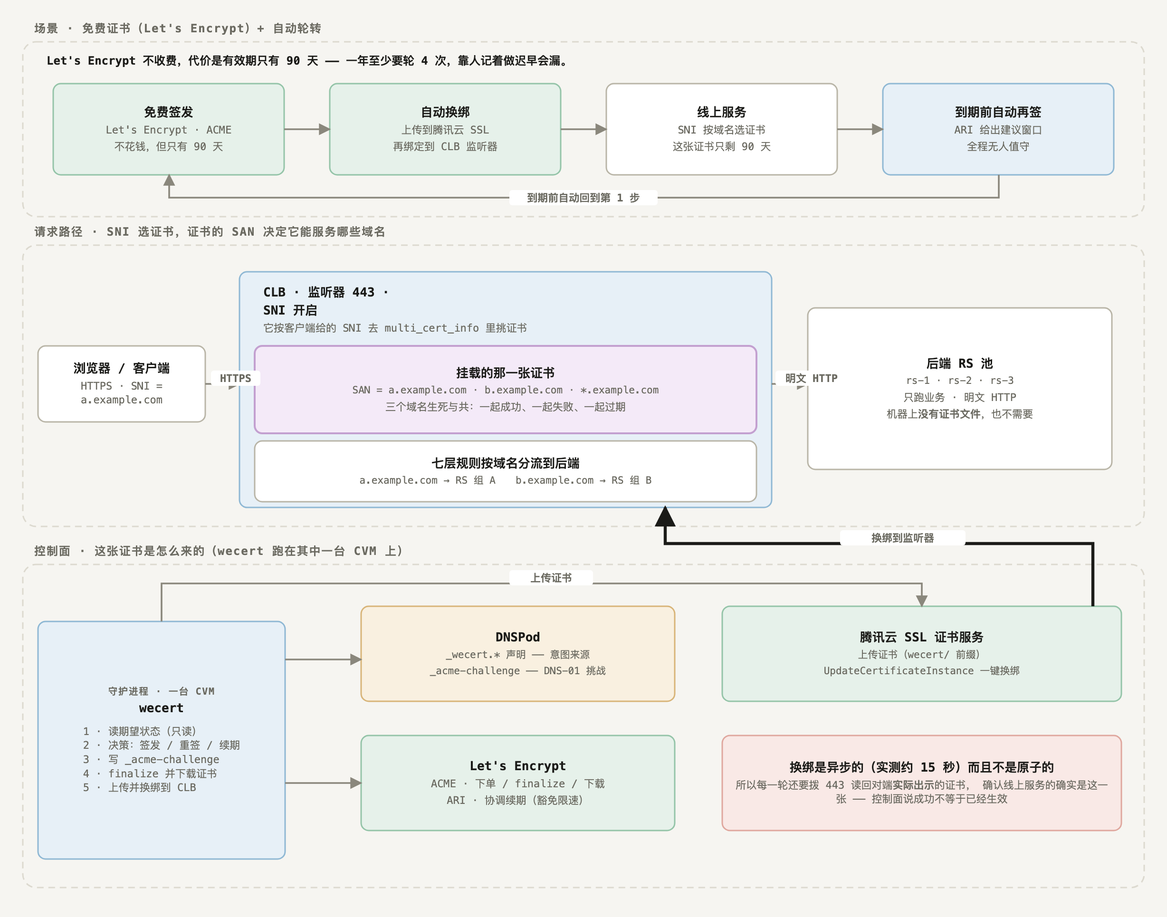
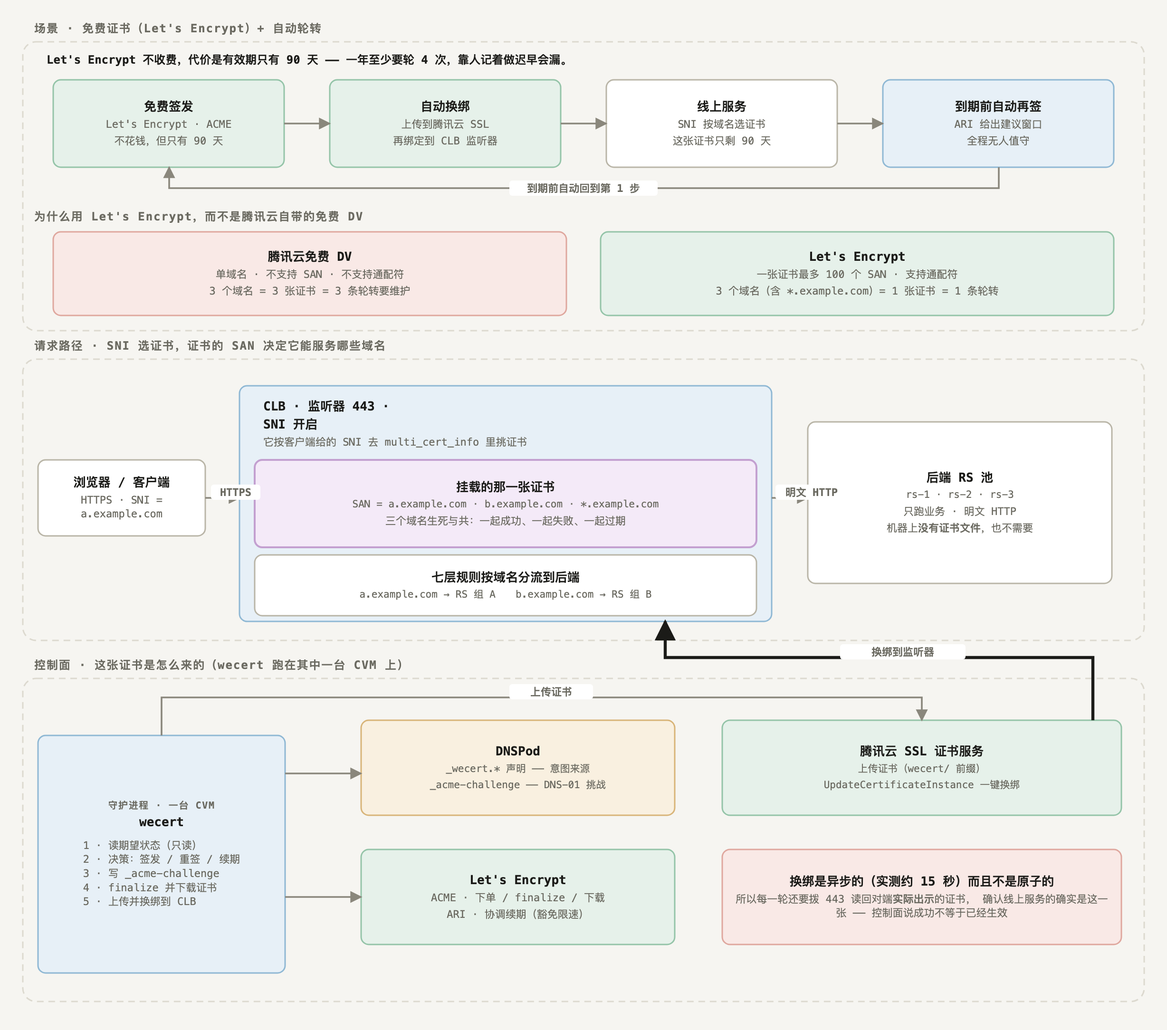
docs: figure ⓪ explains why Let's Encrypt, not Tencent's free DV
The scenario band said the certificate is free and rotates every 90 days,
but never said why it has to be Let's Encrypt rather than the free DV that
Tencent Cloud already hands out. Those are not interchangeable:

  Tencent Cloud free DV  — 单域名 · 不支持 SAN · 不支持通配符
                           3 domains = 3 certificates = 3 rotations
  Let's Encrypt          — ≤100 SANs · wildcards supported
                           3 domains (incl. *.example.com) = 1 cert = 1 rotation

Adds a comparison row to the scenario band making that explicit, and points
out what it buys: the multi-SAN certificate drawn two bands below only works
because Let's Encrypt can carry many names, and a wildcard means adding
foo.example.com later costs zero extra issuances.

Also adds the reasoning to the caption and to all four readmes, which
previously described the figure without ever justifying the CA choice.

Mechanically: the four rotation boxes move up by 4px and shrink by 4px to
make room; the scenario band grows from 184 to 304px tall, the translate
wrapper from 214 to 334, and the viewBox from 965 to 1084. The request-path
and control-plane bands are still untouched.

Verified: build-diagram-langs.py reports no Chinese left in the rendered
English page, check-diagram-fit.py passes in both languages, check-english
guard clean, make check green.

diff --git a/docs/certificate-lifecycle.en.html b/docs/certificate-lifecycle.en.html
@@ -208,60 +208,77 @@ button.print:focus-visible{outline:2px solid var(--local);outline-offset:2px}
 <!-- ══════════════════════════════════════════════════════════ ⓪ -->
 <section id="problem">
   <h2><span class="num">diagram ⓐ</span>Deployment shape: a free certificate rotating itself on the CLB</h2>
-  <p class="cap">The band on top is the scenario this system exists for: <b>a free certificate is valid for 90 days, so it has to rotate automatically</b>. The two bands below are what that scenario looks like on Tencent Cloud — the request path on top, and where the certificate comes from underneath. The relationship in the middle is the one that matters: <b>SNI decides which certificate the CLB uses, and that certificate’s SAN decides which domains it can complete a handshake for</b> — so domains sharing one certificate share its fate.</p>
+  <p class="cap">The band on top is the scenario this system exists for: <b>a free certificate is valid for 90 days, so it has to rotate automatically</b> — and why the choice falls on Let’s Encrypt rather than Tencent Cloud’s own free DV: <b>those are single-domain certificates, supporting neither SAN nor wildcard</b>, so every extra domain means another rotation to maintain. One Let’s Encrypt certificate holds up to 100 names and does support wildcards, so several domains combine into one certificate and rotate as one. The two bands below are what that scenario looks like on Tencent Cloud — the request path on top, and where the certificate comes from underneath. The relationship in the middle is the one that matters: <b>SNI decides which certificate the CLB uses, and that certificate’s SAN decides which domains it can complete a handshake for</b> — so domains sharing one certificate share its fate.</p>
 
   <figure>
   <div class="scroll">
-  <svg viewBox="0 0 1228 965" role="img" aria-label="wecert's deployment shape: a free certificate rotated automatically by Let's Encrypt (issued for free → rebound automatically → serving for 90 days → reissued before expiry), with clients reaching the CLB over SNI and one multi-SAN certificate routing to a backend RS pool">
+  <svg viewBox="0 0 1228 1084" role="img" aria-label="wecert's deployment shape: a free certificate rotated automatically by Let's Encrypt (issued for free → rebound automatically → serving for 90 days → reissued before expiry); Let's Encrypt is chosen over Tencent Cloud's own free DV because the latter is single-domain and supports neither SAN nor wildcard. Clients reach the CLB over SNI and one multi-SAN certificate routes to a backend RS pool">
     <defs>
       <marker id="a0" viewBox="0 0 10 10" refX="9" refY="5" markerWidth="7" markerHeight="7" orient="auto-start-reverse"><path class="m-edge" d="M0 0 L10 5 L0 10 z"/></marker>
       <marker id="a0d" viewBox="0 0 10 10" refX="9" refY="5" markerWidth="7" markerHeight="7" orient="auto-start-reverse"><path class="m-ink" d="M0 0 L10 5 L0 10 z"/></marker>
     </defs>
 
     <!-- ── band 0: the scenario, and why it has to rotate ── -->
-    <rect class="zone" x="24" y="44" width="1180" height="184" rx="14"/>
+    <rect class="zone" x="24" y="44" width="1180" height="304" rx="14"/>
     <text class="zone-title" x="36" y="34">The scenario · a free certificate (Let’s Encrypt), rotating automatically</text>
 
-    <foreignObject x="40" y="50" width="1156" height="28">
+    <foreignObject x="40" y="50" width="1156" height="26">
       <div xmlns="http://www.w3.org/1999/xhtml" class="fo left" style="font-size:12px">Let’s Encrypt costs nothing; the price is a 90-day validity — at least four rotations a year, and a human remembering each one will eventually miss.</div>
     </foreignObject>
 
-    <rect class="bx-ext" x="56" y="88" width="243" height="96" rx="8"/>
-    <foreignObject x="56" y="88" width="243" height="96">
+    <rect class="bx-ext" x="56" y="84" width="243" height="92" rx="8"/>
+    <foreignObject x="56" y="84" width="243" height="92">
       <div xmlns="http://www.w3.org/1999/xhtml" class="fo">Issued for free<span class="s">Let's Encrypt · ACME</span>
         <span class="s">no cost, but only 90 days</span>
       </div>
     </foreignObject>
 
-    <rect class="bx-ext" x="347" y="88" width="243" height="96" rx="8"/>
-    <foreignObject x="347" y="88" width="243" height="96">
+    <rect class="bx-ext" x="347" y="84" width="243" height="92" rx="8"/>
+    <foreignObject x="347" y="84" width="243" height="92">
       <div xmlns="http://www.w3.org/1999/xhtml" class="fo">Rebound automatically<span class="s">uploaded to Tencent Cloud SSL</span>
         <span class="s">then bound to the CLB listener</span>
       </div>
     </foreignObject>
 
-    <rect class="bx" x="638" y="88" width="243" height="96" rx="8"/>
-    <foreignObject x="638" y="88" width="243" height="96">
+    <rect class="bx" x="638" y="84" width="243" height="92" rx="8"/>
+    <foreignObject x="638" y="84" width="243" height="92">
       <div xmlns="http://www.w3.org/1999/xhtml" class="fo">Serving traffic<span class="s">SNI picks the certificate</span>
         <span class="s">only 90 days left on it</span>
       </div>
     </foreignObject>
 
-    <rect class="bx-local" x="929" y="88" width="243" height="96" rx="8"/>
-    <foreignObject x="929" y="88" width="243" height="96">
+    <rect class="bx-local" x="929" y="84" width="243" height="92" rx="8"/>
+    <foreignObject x="929" y="84" width="243" height="92">
       <div xmlns="http://www.w3.org/1999/xhtml" class="fo">Reissued before expiry<span class="s">ARI suggests the window</span>
         <span class="s">nobody has to be involved</span>
       </div>
     </foreignObject>
 
-    <path class="edge" d="M299 136 H347" marker-end="url(#a0)"/>
-    <path class="edge" d="M590 136 H638" marker-end="url(#a0)"/>
-    <path class="edge" d="M881 136 H929" marker-end="url(#a0)"/>
-    <path class="edge" d="M1051 184 V208 H178 V184" marker-end="url(#a0)"/>
-    <rect class="elab-bg" x="536" y="200" width="156" height="16" rx="3"/>
-    <text class="elab" x="614" y="212" text-anchor="middle">before expiry, back to step 1 automatically</text>
+    <path class="edge" d="M299 130 H347" marker-end="url(#a0)"/>
+    <path class="edge" d="M590 130 H638" marker-end="url(#a0)"/>
+    <path class="edge" d="M881 130 H929" marker-end="url(#a0)"/>
+    <path class="edge" d="M1051 176 V198 H178 V176" marker-end="url(#a0)"/>
+    <rect class="elab-bg" x="536" y="190" width="156" height="16" rx="3"/>
+    <text class="elab" x="614" y="202" text-anchor="middle">before expiry, back to step 1 automatically</text>
 
-    <g transform="translate(0,214)">
+    <text class="zone-title" x="36" y="232">Why Let’s Encrypt rather than Tencent Cloud’s own free DV</text>
+
+    <rect class="bx-danger" x="56" y="244" width="540" height="88" rx="8"/>
+    <foreignObject x="56" y="244" width="540" height="88">
+      <div xmlns="http://www.w3.org/1999/xhtml" class="fo">Tencent Cloud free DV<span class="s">one domain only · no SAN · no wildcard</span>
+        <span class="s">3 domains = 3 certificates = 3 rotations to look after</span>
+      </div>
+    </foreignObject>
+
+    <rect class="bx-ext" x="632" y="244" width="540" height="88" rx="8"/>
+    <foreignObject x="632" y="244" width="540" height="88">
+      <div xmlns="http://www.w3.org/1999/xhtml" class="fo">Let's Encrypt
+        <span class="s">up to 100 SANs in one certificate · wildcards supported</span>
+        <span class="s">3 domains (incl. *.example.com) = 1 certificate = 1 rotation</span>
+      </div>
+    </foreignObject>
+
+    <g transform="translate(0,334)">
 
     <!-- ── band 1: the request path ── -->
     <rect class="zone" x="24" y="44" width="1180" height="296" rx="14"/>

diff --git a/docs/certificate-lifecycle.html b/docs/certificate-lifecycle.html
@@ -209,7 +209,11 @@ button.print:focus-visible{outline:2px solid var(--local);outline-offset:2px}
 <section id="problem">
   <h2><span class="num">图 ⓪</span>部署形态：免费证书在 CLB 上自动轮转</h2>
   <p class="cap">
-    最上面那条带子是这套系统要解决的场景：<b>免费证书只有 90 天，必须自动轮转</b>。
+    最上面那条带子是这套系统要解决的场景：<b>免费证书只有 90 天，必须自动轮转</b>；
+    以及为什么选 Let's Encrypt 而不是腾讯云自带的免费 DV ——
+    <b>后者是单域名证书，既不支持 SAN 也不支持通配符</b>，
+    域名一多就得为每个域名单独维护一条轮转，而 Let's Encrypt 一张证书能装 100 个名字、
+    还支持通配符，多个域名可以合成一张、只轮转一条。
     下面两条是它落到腾讯云上的形态——上面是请求路径，下面是这张证书是怎么来的。
     关键的一层关系在中间：
     <b>SNI 决定 CLB 用哪张证书，证书的 SAN 决定它能对哪些域名完成握手</b> ——
@@ -218,62 +222,80 @@ button.print:focus-visible{outline:2px solid var(--local);outline-offset:2px}
 
   <figure>
   <div class="scroll">
-  <svg viewBox="0 0 1228 965" role="img" aria-label="wecert 的部署形态：免费证书由 Let's Encrypt 自动轮转（免费签发 → 自动换绑 → 服务 90 天 → 到期前自动再签），客户端经 SNI 到 CLB，一张多 SAN 证书分流到后端 RS 池">
+  <svg viewBox="0 0 1228 1084" role="img" aria-label="wecert 的部署形态：免费证书由 Let's Encrypt 自动轮转（免费签发 → 自动换绑 → 服务 90 天 → 到期前自动再签）；选它而不是腾讯云自带的免费 DV，是因为后者单域名、不支持 SAN 也不支持通配符。客户端经 SNI 到 CLB，一张多 SAN 证书分流到后端 RS 池">
     <defs>
       <marker id="a0" viewBox="0 0 10 10" refX="9" refY="5" markerWidth="7" markerHeight="7" orient="auto-start-reverse"><path class="m-edge" d="M0 0 L10 5 L0 10 z"/></marker>
       <marker id="a0d" viewBox="0 0 10 10" refX="9" refY="5" markerWidth="7" markerHeight="7" orient="auto-start-reverse"><path class="m-ink" d="M0 0 L10 5 L0 10 z"/></marker>
     </defs>
 
     <!-- ── band 0: the scenario, and why it has to rotate ── -->
-    <rect class="zone" x="24" y="44" width="1180" height="184" rx="14"/>
+    <rect class="zone" x="24" y="44" width="1180" height="304" rx="14"/>
     <text class="zone-title" x="36" y="34">场景 · 免费证书（Let's Encrypt）+ 自动轮转</text>
 
-    <foreignObject x="40" y="50" width="1156" height="28">
+    <foreignObject x="40" y="50" width="1156" height="26">
       <div xmlns="http://www.w3.org/1999/xhtml" class="fo left" style="font-size:12px">
         Let's Encrypt 不收费，代价是有效期只有 90 天 —— 一年至少要轮 4 次，靠人记着做迟早会漏。
       </div>
     </foreignObject>
 
-    <rect class="bx-ext" x="56" y="88" width="243" height="96" rx="8"/>
-    <foreignObject x="56" y="88" width="243" height="96">
+    <rect class="bx-ext" x="56" y="84" width="243" height="92" rx="8"/>
+    <foreignObject x="56" y="84" width="243" height="92">
       <div xmlns="http://www.w3.org/1999/xhtml" class="fo">免费签发
         <span class="s">Let's Encrypt · ACME</span>
         <span class="s">不花钱，但只有 90 天</span>
       </div>
     </foreignObject>
 
-    <rect class="bx-ext" x="347" y="88" width="243" height="96" rx="8"/>
-    <foreignObject x="347" y="88" width="243" height="96">
+    <rect class="bx-ext" x="347" y="84" width="243" height="92" rx="8"/>
+    <foreignObject x="347" y="84" width="243" height="92">
       <div xmlns="http://www.w3.org/1999/xhtml" class="fo">自动换绑
         <span class="s">上传到腾讯云 SSL</span>
         <span class="s">再绑定到 CLB 监听器</span>
       </div>
     </foreignObject>
 
-    <rect class="bx" x="638" y="88" width="243" height="96" rx="8"/>
-    <foreignObject x="638" y="88" width="243" height="96">
+    <rect class="bx" x="638" y="84" width="243" height="92" rx="8"/>
+    <foreignObject x="638" y="84" width="243" height="92">
       <div xmlns="http://www.w3.org/1999/xhtml" class="fo">线上服务
         <span class="s">SNI 按域名选证书</span>
         <span class="s">这张证书只剩 90 天</span>
       </div>
     </foreignObject>
 
-    <rect class="bx-local" x="929" y="88" width="243" height="96" rx="8"/>
-    <foreignObject x="929" y="88" width="243" height="96">
+    <rect class="bx-local" x="929" y="84" width="243" height="92" rx="8"/>
+    <foreignObject x="929" y="84" width="243" height="92">
       <div xmlns="http://www.w3.org/1999/xhtml" class="fo">到期前自动再签
         <span class="s">ARI 给出建议窗口</span>
         <span class="s">全程无人值守</span>
       </div>
     </foreignObject>
 
-    <path class="edge" d="M299 136 H347" marker-end="url(#a0)"/>
-    <path class="edge" d="M590 136 H638" marker-end="url(#a0)"/>
-    <path class="edge" d="M881 136 H929" marker-end="url(#a0)"/>
-    <path class="edge" d="M1051 184 V208 H178 V184" marker-end="url(#a0)"/>
-    <rect class="elab-bg" x="536" y="200" width="156" height="16" rx="3"/>
-    <text class="elab" x="614" y="212" text-anchor="middle">到期前自动回到第 1 步</text>
+    <path class="edge" d="M299 130 H347" marker-end="url(#a0)"/>
+    <path class="edge" d="M590 130 H638" marker-end="url(#a0)"/>
+    <path class="edge" d="M881 130 H929" marker-end="url(#a0)"/>
+    <path class="edge" d="M1051 176 V198 H178 V176" marker-end="url(#a0)"/>
+    <rect class="elab-bg" x="536" y="190" width="156" height="16" rx="3"/>
+    <text class="elab" x="614" y="202" text-anchor="middle">到期前自动回到第 1 步</text>
 
-    <g transform="translate(0,214)">
+    <text class="zone-title" x="36" y="232">为什么用 Let's Encrypt，而不是腾讯云自带的免费 DV</text>
+
+    <rect class="bx-danger" x="56" y="244" width="540" height="88" rx="8"/>
+    <foreignObject x="56" y="244" width="540" height="88">
+      <div xmlns="http://www.w3.org/1999/xhtml" class="fo">腾讯云免费 DV
+        <span class="s">单域名 · 不支持 SAN · 不支持通配符</span>
+        <span class="s">3 个域名 = 3 张证书 = 3 条轮转要维护</span>
+      </div>
+    </foreignObject>
+
+    <rect class="bx-ext" x="632" y="244" width="540" height="88" rx="8"/>
+    <foreignObject x="632" y="244" width="540" height="88">
+      <div xmlns="http://www.w3.org/1999/xhtml" class="fo">Let's Encrypt
+        <span class="s">一张证书最多 100 个 SAN · 支持通配符</span>
+        <span class="s">3 个域名（含 *.example.com）= 1 张证书 = 1 条轮转</span>
+      </div>
+    </foreignObject>
+
+    <g transform="translate(0,334)">
 
     <!-- ── band 1: the request path ── -->
     <rect class="zone" x="24" y="44" width="1180" height="296" rx="14"/>

diff --git a/scripts/diagram_i18n.py b/scripts/diagram_i18n.py
@@ -601,8 +601,20 @@ PROSE: dict[str, str] = {
         'ⓐ Deployment',
     '图 ⓪部署形态：免费证书在 CLB 上自动轮转':
         '<span class="num">diagram ⓐ</span>Deployment shape: a free certificate rotating itself on the CLB',
-    '最上面那条带子是这套系统要解决的场景：免费证书只有 90 天，必须自动轮转。 下面两条是它落到腾讯云上的形态——上面是请求路径，下面是这张证书是怎么来的。 关键的一层关系在中间： SNI 决定 CLB 用哪张证书，证书的 SAN 决定它能对哪些域名完成握手 —— 所以多个域名共用一张证书时，它们是生死与共的。':
-        'The band on top is the scenario this system exists for: <b>a free certificate is valid for 90 days, so it has to rotate automatically</b>. The two bands below are what that scenario looks like on Tencent Cloud — the request path on top, and where the certificate comes from underneath. The relationship in the middle is the one that matters: <b>SNI decides which certificate the CLB uses, and that certificate’s SAN decides which domains it can complete a handshake for</b> — so domains sharing one certificate share its fate.',
+    '最上面那条带子是这套系统要解决的场景：免费证书只有 90 天，必须自动轮转； 以及为什么选 Let\'s Encrypt 而不是腾讯云自带的免费 DV —— 后者是单域名证书，既不支持 SAN 也不支持通配符， 域名一多就得为每个域名单独维护一条轮转，而 Let\'s Encrypt 一张证书能装 100 个名字、 还支持通配符，多个域名可以合成一张、只轮转一条。 下面两条是它落到腾讯云上的形态——上面是请求路径，下面是这张证书是怎么来的。 关键的一层关系在中间： SNI 决定 CLB 用哪张证书，证书的 SAN 决定它能对哪些域名完成握手 —— 所以多个域名共用一张证书时，它们是生死与共的。':
+        'The band on top is the scenario this system exists for: <b>a free certificate is valid for 90 days, so it has to rotate automatically</b> — and why the choice falls on Let’s Encrypt rather than Tencent Cloud’s own free DV: <b>those are single-domain certificates, supporting neither SAN nor wildcard</b>, so every extra domain means another rotation to maintain. One Let’s Encrypt certificate holds up to 100 names and does support wildcards, so several domains combine into one certificate and rotate as one. The two bands below are what that scenario looks like on Tencent Cloud — the request path on top, and where the certificate comes from underneath. The relationship in the middle is the one that matters: <b>SNI decides which certificate the CLB uses, and that certificate’s SAN decides which domains it can complete a handshake for</b> — so domains sharing one certificate share its fate.',
+    '为什么用 Let\'s Encrypt，而不是腾讯云自带的免费 DV':
+        'Why Let’s Encrypt rather than Tencent Cloud’s own free DV',
+    '腾讯云免费 DV':
+        'Tencent Cloud free DV',
+    '单域名 · 不支持 SAN · 不支持通配符':
+        'one domain only · no SAN · no wildcard',
+    '3 个域名 = 3 张证书 = 3 条轮转要维护':
+        '3 domains = 3 certificates = 3 rotations to look after',
+    '一张证书最多 100 个 SAN · 支持通配符':
+        'up to 100 SANs in one certificate · wildcards supported',
+    '3 个域名（含 *.example.com）= 1 张证书 = 1 条轮转':
+        '3 domains (incl. *.example.com) = 1 certificate = 1 rotation',
     '场景 · 免费证书（Let\'s Encrypt）+ 自动轮转':
         'The scenario · a free certificate (Let’s Encrypt), rotating automatically',
     'Let\'s Encrypt 不收费，代价是有效期只有 90 天 —— 一年至少要轮 4 次，靠人记着做迟早会漏。':
@@ -697,6 +709,6 @@ PROSE: dict[str, str] = {
         'DNS-01 sequence: a wildcard and its apex sharing one TXT',
     '证书生命周期时间线':
         'certificate lifetime timeline',
-    "wecert 的部署形态：免费证书由 Let's Encrypt 自动轮转（免费签发 → 自动换绑 → 服务 90 天 → 到期前自动再签），客户端经 SNI 到 CLB，一张多 SAN 证书分流到后端 RS 池":
-        "wecert's deployment shape: a free certificate rotated automatically by Let's Encrypt (issued for free → rebound automatically → serving for 90 days → reissued before expiry), with clients reaching the CLB over SNI and one multi-SAN certificate routing to a backend RS pool",
+    "wecert 的部署形态：免费证书由 Let's Encrypt 自动轮转（免费签发 → 自动换绑 → 服务 90 天 → 到期前自动再签）；选它而不是腾讯云自带的免费 DV，是因为后者单域名、不支持 SAN 也不支持通配符。客户端经 SNI 到 CLB，一张多 SAN 证书分流到后端 RS 池":
+        "wecert's deployment shape: a free certificate rotated automatically by Let's Encrypt (issued for free → rebound automatically → serving for 90 days → reissued before expiry); Let's Encrypt is chosen over Tencent Cloud's own free DV because the latter is single-domain and supports neither SAN nor wildcard. Clients reach the CLB over SNI and one multi-SAN certificate routes to a backend RS pool",
 }

diff --git a/README.md b/README.md
@@ -102,9 +102,13 @@ The one rule everything else follows: **wecert never infers.** Something else wo
 
 ### 0. Deployment shape — a free certificate rotating itself on the CLB
 
-![wecert's deployment shape: a free certificate rotated automatically by Let's Encrypt (issued for free → rebound automatically → serving for 90 days → reissued before expiry), with clients reaching the CLB over SNI and one multi-SAN certificate routing to a backend RS pool](docs/diagrams/en/00-deployment-shape.png)
+![wecert's deployment shape: a free certificate rotated automatically by Let's Encrypt (issued for free → rebound automatically → serving for 90 days → reissued before expiry); Let's Encrypt is chosen over Tencent Cloud's own free DV because the latter is single-domain and supports neither SAN nor wildcard](docs/diagrams/en/00-deployment-shape.png)
 
-The scenario this system exists for is the band on top: **a Let's Encrypt certificate is free, and the price is a 90-day validity** — at least four rotations a year, and a human remembering each one will eventually miss. The point is not that wecert *can* issue; it is that the certificate is already replaced before it expires, with nobody involved.
+The scenario this system exists for is the band on top: **a Let's Encrypt certificate is free, and the price is a 90-day validity** — at least four rotations a year, and a human remembering each one will eventually miss.
+
+Tencent Cloud's own free DV is not an alternative. **It is a single-domain certificate: no SAN, no wildcard.** A deployment with a handful of domains would need one certificate and one rotation pipeline per domain. One Let's Encrypt certificate carries up to 100 names and does support wildcards, so several domains — including `*.example.com` — collapse into a single certificate with a single rotation to look after. That is what makes the multi-SAN shape drawn below possible at all.
+
+The point is not that wecert *can* issue; it is that the certificate is already replaced before it expires, with nobody involved.
 
 Requests arrive at the CLB over SNI. The CLB picks the certificate out of `multi_cert_info` using the name the client sent, and the layer-7 rules route by domain to the backend RS pool. `wecert` runs on one of those CVMs; it reads the `_wecert.*` declarations from DNSPod, writes the `_acme-challenge` records, obtains the certificate from Let's Encrypt, uploads it to Tencent Cloud SSL and rebinds the listener.
 

diff --git a/README.reference.md b/README.reference.md
@@ -376,9 +376,13 @@ The build also *measures* every label in a real browser, in **both** languages, 
 
 ### 0. Deployment shape — a free certificate rotating itself on the CLB
 
-![wecert's deployment shape: a free certificate rotated automatically by Let's Encrypt (issued for free → rebound automatically → serving for 90 days → reissued before expiry), with clients reaching the CLB over SNI and one multi-SAN certificate routing to a backend RS pool](docs/diagrams/en/00-deployment-shape.png)
+![wecert's deployment shape: a free certificate rotated automatically by Let's Encrypt (issued for free → rebound automatically → serving for 90 days → reissued before expiry); Let's Encrypt is chosen over Tencent Cloud's own free DV because the latter is single-domain and supports neither SAN nor wildcard](docs/diagrams/en/00-deployment-shape.png)
 
-The scenario this system exists for is the band on top: **a Let's Encrypt certificate is free, and the price is a 90-day validity** — at least four rotations a year, and a human remembering each one will eventually miss. The point is not that wecert *can* issue; it is that the certificate is already replaced before it expires, with nobody involved.
+The scenario this system exists for is the band on top: **a Let's Encrypt certificate is free, and the price is a 90-day validity** — at least four rotations a year, and a human remembering each one will eventually miss.
+
+Tencent Cloud's own free DV is not an alternative. **It is a single-domain certificate: no SAN, no wildcard.** A deployment with a handful of domains would need one certificate and one rotation pipeline per domain. One Let's Encrypt certificate carries up to 100 names and does support wildcards, so several domains — including `*.example.com` — collapse into a single certificate with a single rotation to look after. That is what makes the multi-SAN shape drawn below possible at all.
+
+The point is not that wecert *can* issue; it is that the certificate is already replaced before it expires, with nobody involved.
 
 Requests arrive at the CLB over SNI. The CLB picks the certificate out of `multi_cert_info` using the name the client sent, and the layer-7 rules route by domain to the backend RS pool. `wecert` runs on one of those CVMs; it reads the `_wecert.*` declarations from DNSPod, writes the `_acme-challenge` records, obtains the certificate from Let's Encrypt, uploads it to Tencent Cloud SSL and rebinds the listener.
 

diff --git a/README.zh-CN.md b/README.zh-CN.md
@@ -106,9 +106,13 @@ lego 高层的 `certificate.Obtain` 是刻意不用的：它在内部自己 `new
 
 ### 0. 部署形态：免费证书在 CLB 上自动轮转
 
-![wecert 的部署形态：免费证书由 Let's Encrypt 自动轮转（免费签发 → 自动换绑 → 服务 90 天 → 到期前自动再签），客户端经 SNI 到 CLB，一张多 SAN 证书分流到后端 RS 池](docs/diagrams/zh/00-deployment-shape.png)
+![wecert 的部署形态：免费证书由 Let's Encrypt 自动轮转（免费签发 → 自动换绑 → 服务 90 天 → 到期前自动再签）；选它而不是腾讯云自带的免费 DV，是因为后者单域名、不支持 SAN 也不支持通配符](docs/diagrams/zh/00-deployment-shape.png)
 
-这套系统要解决的场景就是最上面那条带子：**Let's Encrypt 的证书不花钱，代价是有效期只有 90 天** —— 一年至少要轮 4 次，靠人记着做迟早会漏。所以重点不是"wecert 能签发"，而是"到期前它已经自己换好了，全程不用人管"。
+这套系统要解决的场景就是最上面那条带子：**Let's Encrypt 的证书不花钱，代价是有效期只有 90 天** —— 一年至少要轮 4 次，靠人记着做迟早会漏。
+
+腾讯云自带的免费 DV 并不能替代它：**那是单域名证书，不支持 SAN，也不支持通配符**。手上只要有几个域名，就得每个域名一张证书、每条证书各自维护一条轮转。而 Let's Encrypt 一张证书最多能装 100 个名字、还支持通配符，几个域名（含 `*.example.com`）可以合成一张证书、只轮转一条 —— 下面画的那张多 SAN 证书能成立，前提就在这里。
+
+所以重点不是"wecert 能签发"，而是"到期前它已经自己换好了，全程不用人管"。
 
 请求带着 SNI 到 CLB。CLB 按客户端给的名字去 `multi_cert_info` 里挑证书，七层规则再按域名分流到后端 RS 池。`wecert` 就跑在其中一台 CVM 上：读 DNSPod 里的 `_wecert.*` 声明、写 `_acme-challenge` 记录、向 Let's Encrypt 取证书、上传到腾讯云 SSL 并换绑监听器。
 

diff --git a/README.reference.zh-CN.md b/README.reference.zh-CN.md
@@ -388,9 +388,13 @@ retired_certificates          -- 已上传、等待回收的证书
 
 ### 0. 部署形态：免费证书在 CLB 上自动轮转
 
-![wecert 的部署形态：免费证书由 Let's Encrypt 自动轮转（免费签发 → 自动换绑 → 服务 90 天 → 到期前自动再签），客户端经 SNI 到 CLB，一张多 SAN 证书分流到后端 RS 池](docs/diagrams/zh/00-deployment-shape.png)
+![wecert 的部署形态：免费证书由 Let's Encrypt 自动轮转（免费签发 → 自动换绑 → 服务 90 天 → 到期前自动再签）；选它而不是腾讯云自带的免费 DV，是因为后者单域名、不支持 SAN 也不支持通配符](docs/diagrams/zh/00-deployment-shape.png)
 
-这套系统要解决的场景就是最上面那条带子：**Let's Encrypt 的证书不花钱，代价是有效期只有 90 天** —— 一年至少要轮 4 次，靠人记着做迟早会漏。所以重点不是"wecert 能签发"，而是"到期前它已经自己换好了，全程不用人管"。
+这套系统要解决的场景就是最上面那条带子：**Let's Encrypt 的证书不花钱，代价是有效期只有 90 天** —— 一年至少要轮 4 次，靠人记着做迟早会漏。
+
+腾讯云自带的免费 DV 并不能替代它：**那是单域名证书，不支持 SAN，也不支持通配符**。手上只要有几个域名，就得每个域名一张证书、每条证书各自维护一条轮转。而 Let's Encrypt 一张证书最多能装 100 个名字、还支持通配符，几个域名（含 `*.example.com`）可以合成一张证书、只轮转一条 —— 下面画的那张多 SAN 证书能成立，前提就在这里。
+
+所以重点不是"wecert 能签发"，而是"到期前它已经自己换好了，全程不用人管"。
 
 请求带着 SNI 到 CLB。CLB 按客户端给的名字去 `multi_cert_info` 里挑证书，七层规则再按域名分流到后端 RS 池。`wecert` 就跑在其中一台 CVM 上：读 DNSPod 里的 `_wecert.*` 声明、写 `_acme-challenge` 记录、向 Let's Encrypt 取证书、上传到腾讯云 SSL 并换绑监听器。
 
